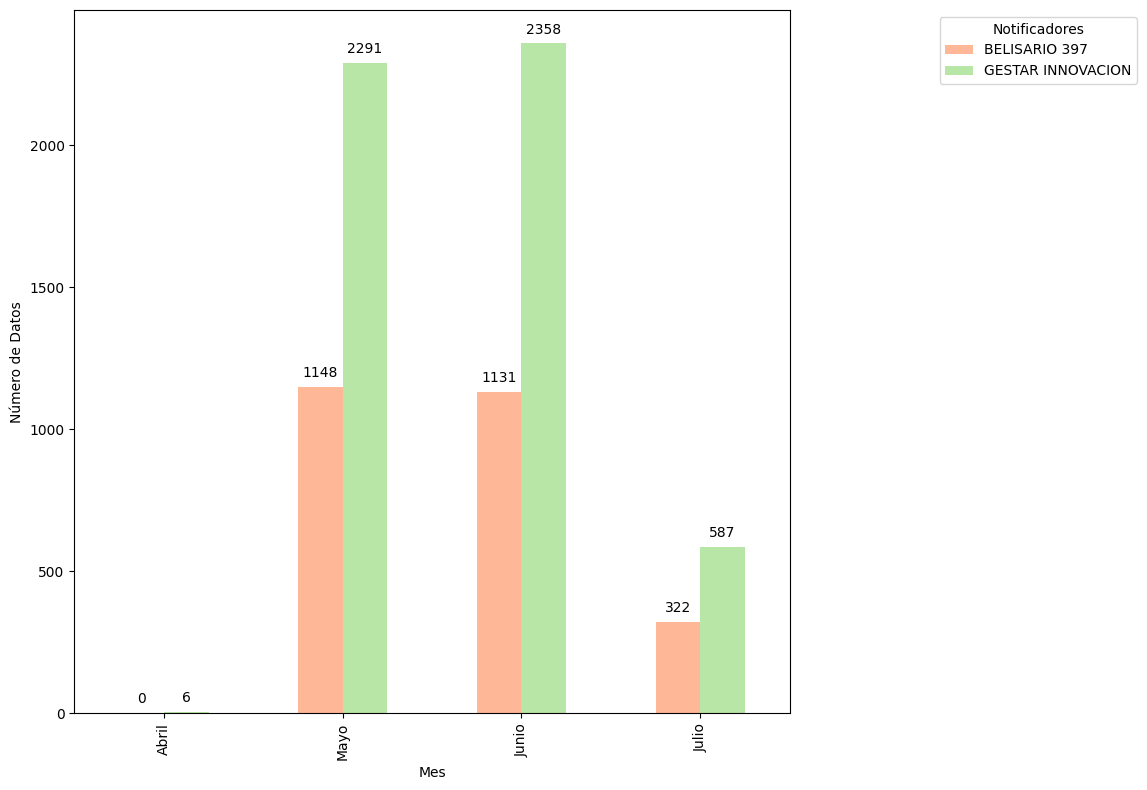
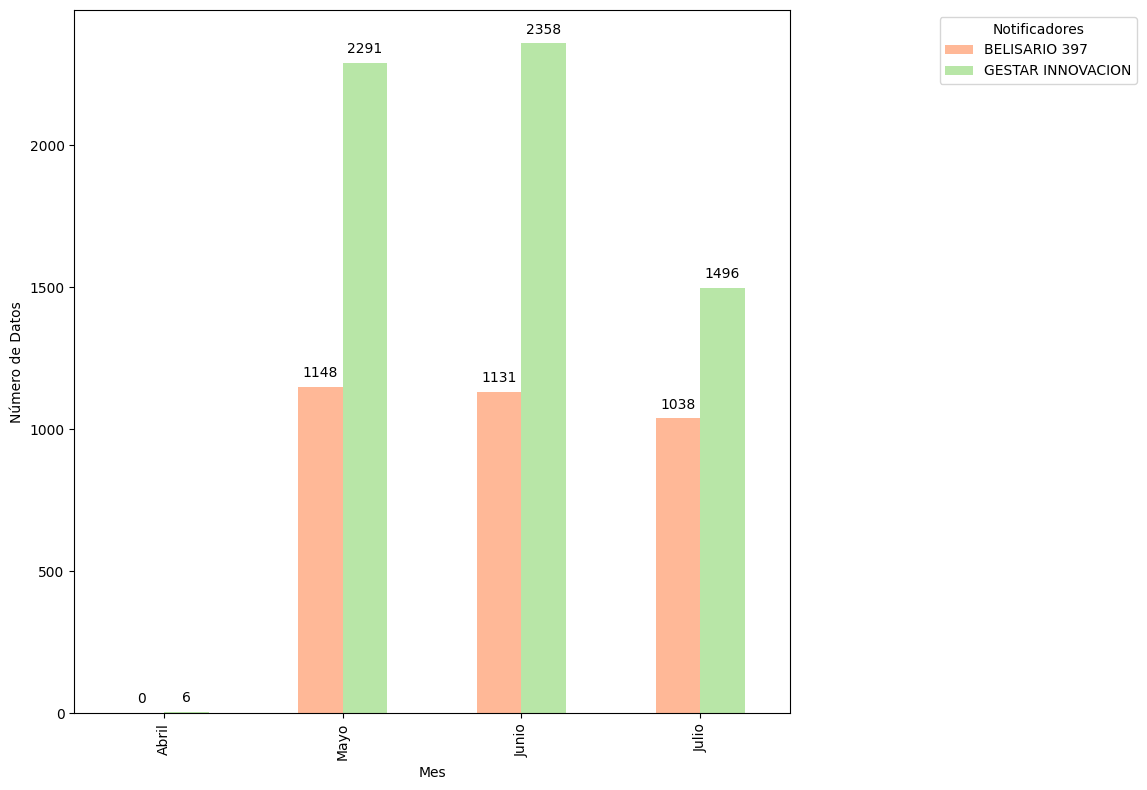
Etiquetas de datos

Changed region(s): [[0.5493, 0.3342, 0.6713, 0.7899]]

diff --git a/views/proceso1.py b/views/proceso1.py
@@ -338,7 +338,18 @@ def graficas_barras_tabla_mes(df, nombre_hoja):
 
     # 📊 Plot
     fig, ax = plt.subplots(figsize=(12, 6))
-    tabla.plot(kind='bar', ax=ax, color=colores)
+    barras = tabla.plot(kind='bar', ax=ax, color=colores)
+
+    # Etiquetas de datos
+    for p in ax.patches:
+        altura = p.get_height()
+        if altura > 0:  # Evitar etiquetas en barras vacías
+            ax.text(
+                p.get_x() + p.get_width() / 2,  # posición x centrada
+                altura,                        # posición y arriba de la barra
+                int(altura),                   # valor entero
+                ha='center', va='bottom', fontsize=8
+            )
 
     ax.set_xlabel("Mes")
     ax.set_ylabel("Cantidad")
@@ -350,6 +361,7 @@ def graficas_barras_tabla_mes(df, nombre_hoja):
     plt.savefig(path, transparent=True, bbox_inches="tight")
     plt.close(fig)
     return path
+
 
 
 def graficas_pastel_tabla_mes(df, nombre_hoja):
